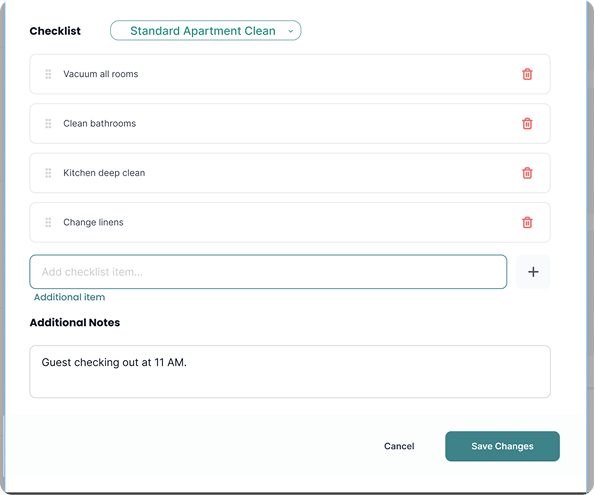
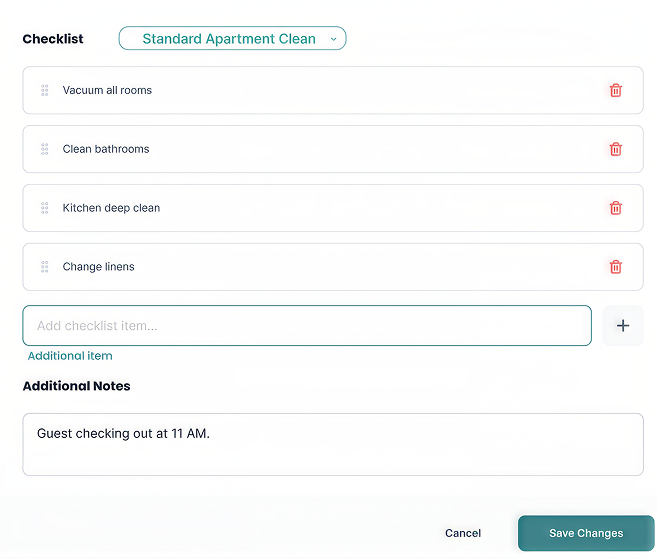
Replace checklist-additional-item.png with high-resolution 143KB asset

diff --git a/public/klenzaa-final.html b/public/klenzaa-final.html
@@ -301,7 +301,7 @@
     </div>
 
     <figure>
-      <img src="/images/checklist-additional-item.png" alt="Adding a one off additional item to a scheduled clean checklist" style="max-width: 480px; width: 100%; margin: 0 auto; display: block;">
+      <img src="/images/checklist-additional-item.png" alt="Adding a one off additional item to a scheduled clean checklist" style="max-width: 680px; width: 100%; margin: 0 auto; display: block;">
     </figure>
   </section>
 

diff --git a/src/components/case-study/KlenzaaCaseStudy.tsx b/src/components/case-study/KlenzaaCaseStudy.tsx
@@ -305,7 +305,7 @@ export default function KlenzaaCaseStudy() {
           </div>
 
           <figure className={styles.figure}>
-            <div style={{ maxWidth: '480px', width: '100%', margin: '0 auto' }}>
+            <div style={{ maxWidth: '680px', width: '100%', margin: '0 auto' }}>
               <MediaItem
                 filename="checklist-additional-item.png"
                 altText="Adding a one off additional item to a scheduled clean checklist"
